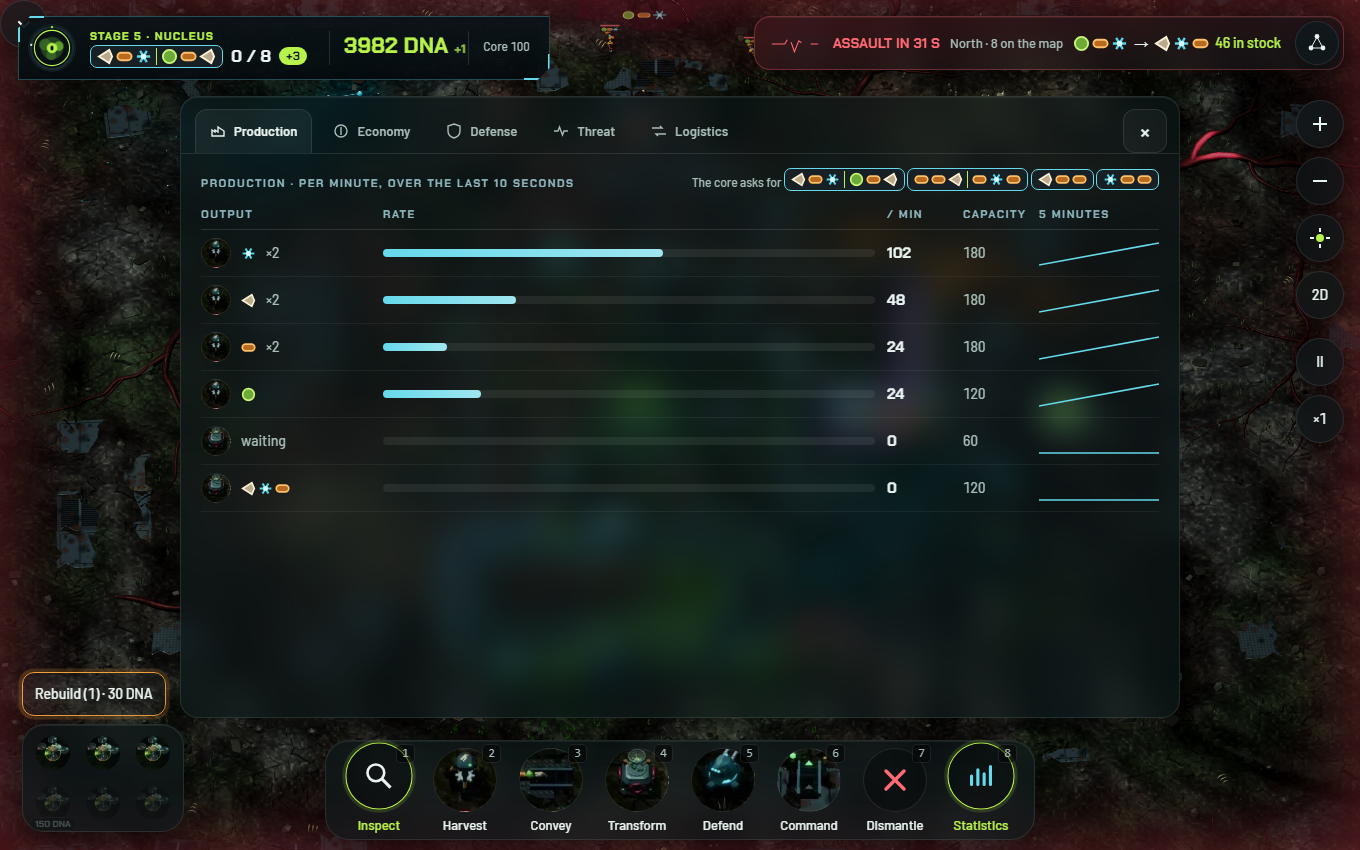
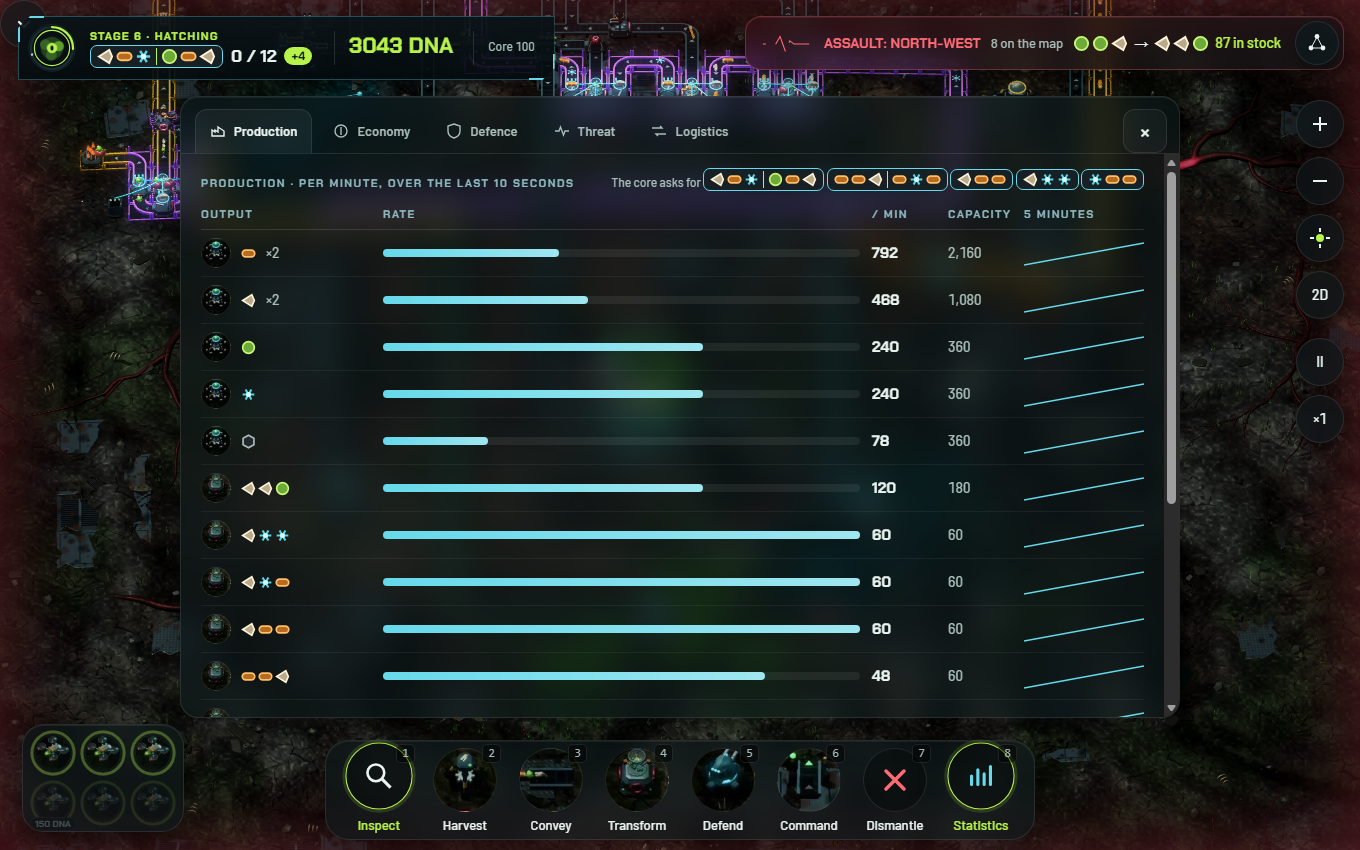
Strainworks 0.1.38

diff --git a/prototype/index.html b/prototype/index.html
@@ -1111,7 +1111,7 @@ html.still #planet > .fx.sweep, html.still #planet > .fx.spores { display:none; 
     <div class="row"><span>Commandes</span><button id="help" class="tip">Voir</button></div>
     <div class="row"><span>Langue</span><span class="choice"><button id="lang-fr" class="tip" aria-label="Français" lang="fr">FR</button><button id="lang-en" class="tip" aria-label="English" lang="en">EN</button></span></div>
     <button class="row go" data-go="dev"><span>Développeur</span><b aria-hidden="true">›</b></button>
-    <a id="version-row" class="row" href="https://github.com/AlexAgo83/strainworks" target="_blank" rel="noopener"><span>Version du jeu</span><span id="game-version">0.1.37</span></a>
+    <a id="version-row" class="row" href="https://github.com/AlexAgo83/strainworks" target="_blank" rel="noopener"><span>Version du jeu</span><span id="game-version">0.1.38</span></a>
    </div>
    <div class="page" data-page="graphics" hidden>
     <div class="crumbs"><button class="tip back" data-go="root">‹ Réglages</button><h2>Graphismes</h2></div>

diff --git a/README.md b/README.md
@@ -5,7 +5,7 @@
 <p align="center"><b>Write the living. Make it a factory. Survive its mutations.</b></p>
 
 <p align="center">
-  <img src="https://img.shields.io/badge/version-0.1.37-B7F34A" alt="Version" />
+  <img src="https://img.shields.io/badge/version-0.1.38-B7F34A" alt="Version" />
   <img src="https://img.shields.io/badge/license-MIT-2E8B57" alt="License" />
   <img src="https://img.shields.io/badge/Babylon.js-9-BB464B" alt="Babylon.js" />
   <img src="https://img.shields.io/badge/status-prototype-66D9EA" alt="Status" />
@@ -14,7 +14,7 @@
 <h3 align="center"><a href="https://strainworks.onrender.com">▶ Play now at strainworks.onrender.com</a></h3>
 <p align="center">No install, no account. On a desktop or a phone, installable and playable offline.</p>
 
-<p align="center"><img src="docs/media/strainworks-factory.gif" alt="An antidote factory running by itself off its nerve: three listening sorters feed a Ligase, which feeds a turret and a mister" /></p>
+<p align="center"><img src="docs/media/strainworks-factory.gif" alt="The demo's antidote factory: three Ligase modules on their consoles, fed by listening sorters off one bus, send capsules to the core" /></p>
 
 You run a station that industrializes life. You mine organic bases, splice them into genes, weave the genes
 into DNA and feed it to a hungry core. Out in the fog, the breaches you woke send creatures built from the
@@ -40,12 +40,12 @@ A factory game crossed with tower defense, in the browser and on the phone, in E
   harpoon that runs through a titan, all in three ranks.
 - **Nothing appears by magic.** Drones fly to every site, build it, dismantle it, repair it. You watch them work.
 
-![An awake nest sends its wave toward the base and its antidote factory](docs/media/strainworks-assault.gif)
+![The north-west outpost holds its awakened nest with antidote magazines](docs/media/strainworks-assault.gif)
 
 ## A small planet of games
 
 Every game is a hexagon on a living planet that fills up as you play. Pick one up where you left it, export it,
-copy it, share it as a file. A demo hexagon opens a stage 5 base that runs by itself, fresh every time.
+copy it, share it as a file. A demo hexagon opens a stage 6 base that runs by itself, fresh every time, in the middle of a fight.
 The game installs as an app and plays offline, in 2D or in 3D with a
 small-planet curvature, on a desktop or a phone.
 
@@ -54,7 +54,7 @@ small-planet curvature, on a desktop or a phone.
   <img src="docs/media/strainworks-stats.png" alt="The Statistics sheet" width="49%" />
 </p>
 
-<p align="center"><img src="docs/media/strainworks-overview.gif" alt="The demo base in 3D: the core, the antidote factory, the maglev worm loop and its silos" /></p>
+<p align="center"><img src="docs/media/strainworks-overview.gif" alt="The demo base in 3D: the core, its harvesters, two factory rows and the north-west outpost" /></p>
 
 ## Play
 

diff --git a/changelogs/CHANGELOGS_0_1_38.md b/changelogs/CHANGELOGS_0_1_38.md
@@ -1,0 +1,29 @@
+# Strainworks 0.1.38
+
+Release date: 2026-11-24.
+
+## Demo
+
+- The demo hexagon is back, with a new base built piece by piece the way a player would, then played: a stage 6
+  station that runs by itself, fresh every time it opens.
+- An antidote factory: three Ligase modules on consoles (CNN, CNF and CFF), each fed by three listening sorters
+  on a rank 3 bus. Two Encapsulators send CNN and CFF capsules to the core over the bus by two bridges.
+- A second row joins FFC and FNF into FFCFNF strands in an Assembler and boxes them for the core. The first row is
+  served first: the second gets what it leaves, plus F straight from the F harvester.
+- Defence: the CNF antidote is boxed in magazines for three turrets.
+- A north-west outpost faces its nest: an MK3 module makes CCS, the antidote of the nest's SSC family, for three
+  turrets, a sting and a maw at the edge of its circle. A large harvester on the guarded F field wakes the nest, and
+  the demo opens in the middle of the fight.
+
+## Burner
+
+- The burner has ranks: it clears 4, 8 or 12 items a second (30 and 90 ADN to raise it), and wears its rank ring.
+
+## Bridge
+
+- Each lane of a bridge runs at the pace of its own belts. A slow line crossing a fast bus no longer slows the bus.
+  The bridge's card shows both paces.
+
+## README
+
+- The README pictures come from the new demo base.

diff --git a/changelogs/README.md b/changelogs/README.md
@@ -7,6 +7,7 @@
 
 Versions:
 
+- [`0.1.38`](CHANGELOGS_0_1_38.md)
 - [`0.1.37`](CHANGELOGS_0_1_37.md)
 - [`0.1.36`](CHANGELOGS_0_1_36.md)
 - [`0.1.35`](CHANGELOGS_0_1_35.md)
